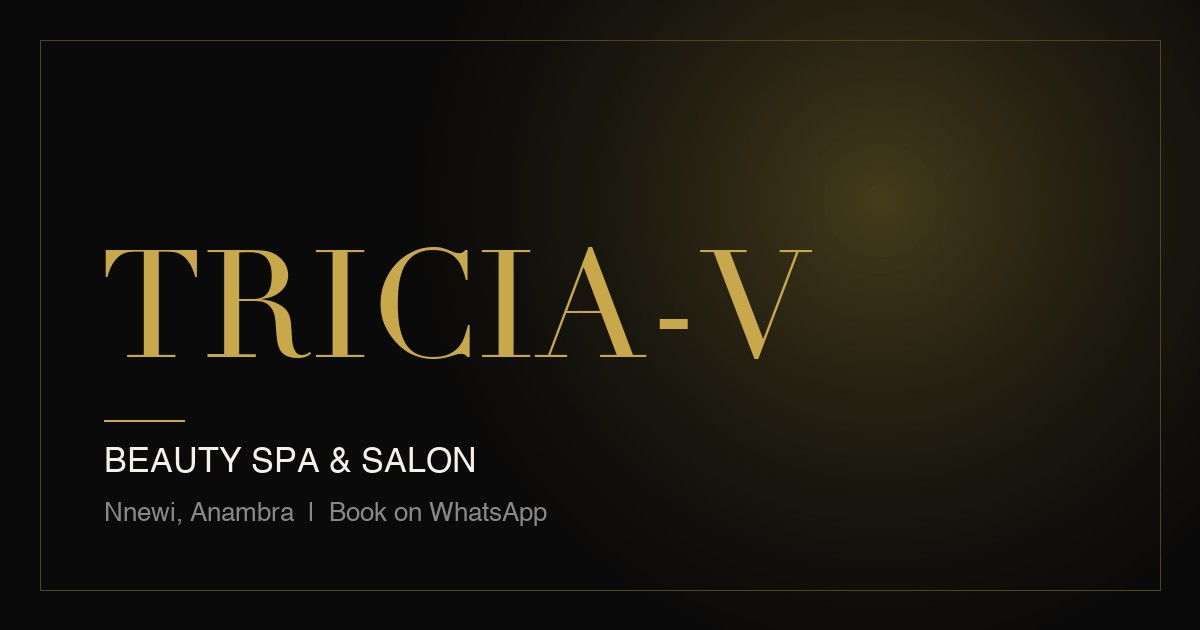
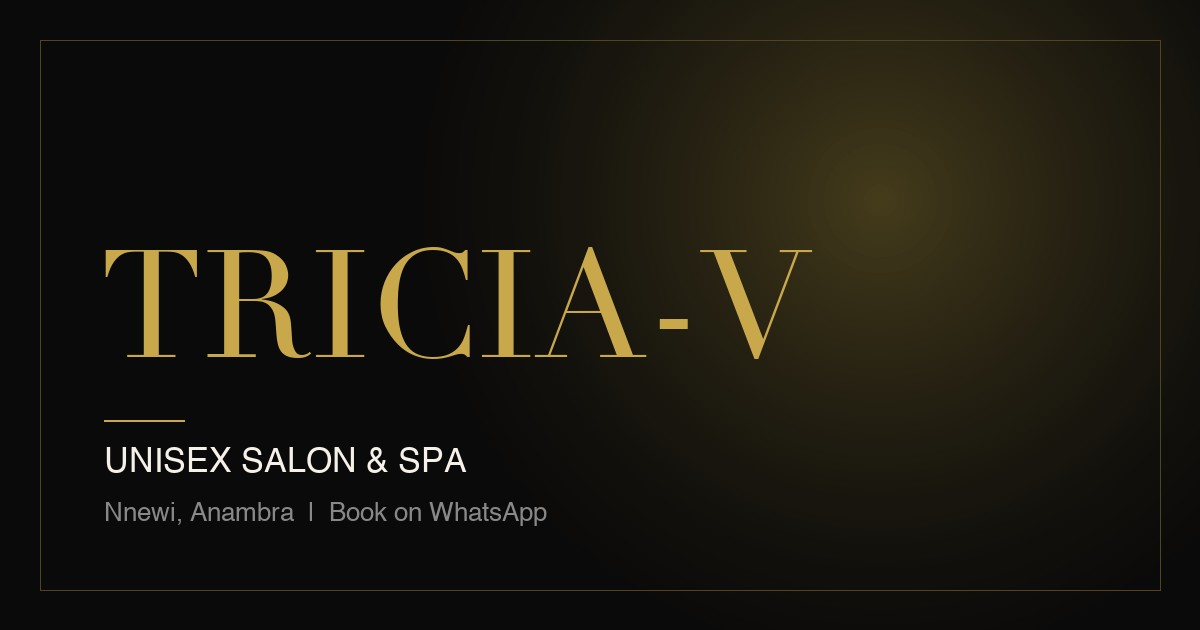
Use Google business name, verified map embed, Anambra-wide home service copy

Changed region(s): [[0.0925, 0.6937, 0.4008, 0.754]]

diff --git a/index.html b/index.html
@@ -4,21 +4,21 @@
 <meta charset="utf-8">
 <meta name="viewport" content="width=device-width, initial-scale=1">
 <meta name="robots" content="noindex, nofollow">
-<title>TRICIA-V Beauty Spa &amp; Salon | Pedicure, Nails &amp; Spa in Nnewi Anambra</title>
-<meta name="description" content="TRICIA-V Beauty Spa and Salon - premium pedicure, manicure, facials, Moroccan radiance therapy, semi-permanent tattoos and home services in Nnewi, Anambra. Book on WhatsApp.">
+<title>TRICIA-V unisex salon and spa | Pedicure, Nails &amp; Spa in Nnewi Anambra</title>
+<meta name="description" content="TRICIA-V unisex salon and spa - premium pedicure, manicure, facials, Moroccan radiance therapy, semi-permanent tattoos and home services in Nnewi, Anambra. Book on WhatsApp.">
 <meta name="theme-color" content="#0A0A0A">
 <link rel="canonical" href="https://tricia-v.vercel.app">
 <link rel="icon" href="/favicon.ico">
 
 <meta property="og:type" content="website">
-<meta property="og:title" content="TRICIA-V Beauty Spa &amp; Salon | Pedicure, Nails &amp; Spa in Nnewi Anambra">
-<meta property="og:description" content="TRICIA-V Beauty Spa and Salon - premium pedicure, manicure, facials, Moroccan radiance therapy, semi-permanent tattoos and home services in Nnewi, Anambra. Book on WhatsApp.">
+<meta property="og:title" content="TRICIA-V unisex salon and spa | Pedicure, Nails &amp; Spa in Nnewi Anambra">
+<meta property="og:description" content="TRICIA-V unisex salon and spa - premium pedicure, manicure, facials, Moroccan radiance therapy, semi-permanent tattoos and home services in Nnewi, Anambra. Book on WhatsApp.">
 <meta property="og:url" content="https://tricia-v.vercel.app">
 <meta property="og:image" content="https://tricia-v.vercel.app/og-image.jpg">
 <meta property="og:image:width" content="1200">
 <meta property="og:image:height" content="630">
 <meta name="twitter:card" content="summary_large_image">
-<meta name="twitter:title" content="TRICIA-V Beauty Spa &amp; Salon | Pedicure, Nails &amp; Spa in Nnewi Anambra">
+<meta name="twitter:title" content="TRICIA-V unisex salon and spa | Pedicure, Nails &amp; Spa in Nnewi Anambra">
 <meta name="twitter:description" content="Premium pedicure, manicure, facials, Moroccan radiance therapy, semi-permanent tattoos and home services in Nnewi, Anambra. Book on WhatsApp.">
 <meta name="twitter:image" content="https://tricia-v.vercel.app/og-image.jpg">
 
@@ -30,7 +30,7 @@
 {
   "@context": "https://schema.org",
   "@type": "BeautySalon",
-  "name": "TRICIA-V Beauty Spa and Salon",
+  "name": "TRICIA-V unisex salon and spa",
   "image": "https://tricia-v.vercel.app/images/hero.jpg",
   "address": {
     "@type": "PostalAddress",
@@ -51,7 +51,8 @@
   }],
   "sameAs": [
     "https://www.instagram.com/tricia_v_beauty_spa_and_salon_/",
-    "https://www.tiktok.com/@tricia_v_beauty_spa_and_salon_"
+    "https://www.tiktok.com/@tricia_v_beauty_spa_and_salon_",
+    "https://share.google/2gv11sHZ3atTrzJFW"
   ]
 }
 </script>
@@ -411,7 +412,7 @@ footer li a:hover{color:var(--gold-light)}
       <a href="#services">Services</a>
       <a href="#gallery">Gallery</a>
       <a href="#about">About</a>
-      <a href="https://wa.me/2348061172417?text=Hi%2C%20I%20would%20like%20to%20book%20an%20appointment%20at%20TRICIA-V%20Beauty%20Spa%20and%20Salon" class="btn btn-gold" target="_blank" rel="noopener">Book Now</a>
+      <a href="https://wa.me/2348061172417?text=Hi%2C%20I%20would%20like%20to%20book%20an%20appointment%20at%20TRICIA-V%20unisex%20salon%20and%20spa" class="btn btn-gold" target="_blank" rel="noopener">Book Now</a>
     </nav>
     <button class="burger" id="burger" aria-label="Open menu" aria-expanded="false" aria-controls="navLinks"><span></span><span></span><span></span></button>
   </div>
@@ -421,7 +422,7 @@ footer li a:hover{color:var(--gold-light)}
 
 <!-- ═════════ 2 HERO ═════════ -->
 <section class="hero" id="top">
-  <img class="hero-img" src="/images/hero.jpg" width="1920" height="1080" alt="Inside TRICIA-V Beauty Spa and Salon, Nnewi" fetchpriority="high" decoding="async">
+  <img class="hero-img" src="/images/hero.jpg" width="1920" height="1080" alt="Inside TRICIA-V unisex salon and spa, Nnewi" fetchpriority="high" decoding="async">
   <div class="wrap">
     <h1 id="heroTitle">
       <span class="line"><span>Beauty Redefined.</span></span>
@@ -429,7 +430,7 @@ footer li a:hover{color:var(--gold-light)}
     </h1>
     <p class="sub" data-hero>Pedicures, nail art, facials, Moroccan radiance therapy, semi-permanent tattoos and home services - in the heart of Nnewi, Anambra.</p>
     <div class="hero-cta" data-hero>
-      <a class="btn btn-gold" href="https://wa.me/2348061172417?text=Hi%2C%20I%20would%20like%20to%20book%20an%20appointment%20at%20TRICIA-V%20Beauty%20Spa%20and%20Salon" target="_blank" rel="noopener">Book on WhatsApp</a>
+      <a class="btn btn-gold" href="https://wa.me/2348061172417?text=Hi%2C%20I%20would%20like%20to%20book%20an%20appointment%20at%20TRICIA-V%20unisex%20salon%20and%20spa" target="_blank" rel="noopener">Book on WhatsApp</a>
       <a class="btn btn-line" href="#services">View Services</a>
     </div>
   </div>
@@ -448,61 +449,61 @@ footer li a:hover{color:var(--gold-light)}
         <svg class="ic" aria-hidden="true"><use href="#i-pedicure"/></svg>
         <h3>Pedicure</h3>
         <p>Classic, spa and luxury pedicures, from a simple tidy-up to a full indulgence.</p>
-        <a class="dm" href="https://wa.me/2348061172417?text=Hi%2C%20I%20would%20like%20to%20book%20an%20appointment%20at%20TRICIA-V%20Beauty%20Spa%20and%20Salon" target="_blank" rel="noopener" aria-label="Pedicure: DM to book on WhatsApp">DM to book</a>
+        <a class="dm" href="https://wa.me/2348061172417?text=Hi%2C%20I%20would%20like%20to%20book%20an%20appointment%20at%20TRICIA-V%20unisex%20salon%20and%20spa" target="_blank" rel="noopener" aria-label="Pedicure: DM to book on WhatsApp">DM to book</a>
       </article>
       <article class="svc" data-reveal>
         <svg class="ic" aria-hidden="true"><use href="#i-manicure"/></svg>
         <h3>Manicure &amp; Nail Art</h3>
         <p>Classic and gel manicures, with custom nail art designed around you.</p>
-        <a class="dm" href="https://wa.me/2348061172417?text=Hi%2C%20I%20would%20like%20to%20book%20an%20appointment%20at%20TRICIA-V%20Beauty%20Spa%20and%20Salon" target="_blank" rel="noopener" aria-label="Manicure and Nail Art: DM to book on WhatsApp">DM to book</a>
+        <a class="dm" href="https://wa.me/2348061172417?text=Hi%2C%20I%20would%20like%20to%20book%20an%20appointment%20at%20TRICIA-V%20unisex%20salon%20and%20spa" target="_blank" rel="noopener" aria-label="Manicure and Nail Art: DM to book on WhatsApp">DM to book</a>
       </article>
       <article class="svc" data-reveal>
         <svg class="ic" aria-hidden="true"><use href="#i-facial"/></svg>
         <h3>Facials &amp; Skin Renewal</h3>
         <p>Facials that cleanse, restore and renew tired skin.</p>
-        <a class="dm" href="https://wa.me/2348061172417?text=Hi%2C%20I%20would%20like%20to%20book%20an%20appointment%20at%20TRICIA-V%20Beauty%20Spa%20and%20Salon" target="_blank" rel="noopener" aria-label="Facials and Skin Renewal: DM to book on WhatsApp">DM to book</a>
+        <a class="dm" href="https://wa.me/2348061172417?text=Hi%2C%20I%20would%20like%20to%20book%20an%20appointment%20at%20TRICIA-V%20unisex%20salon%20and%20spa" target="_blank" rel="noopener" aria-label="Facials and Skin Renewal: DM to book on WhatsApp">DM to book</a>
       </article>
       <article class="svc" data-reveal>
         <svg class="ic" aria-hidden="true"><use href="#i-radiance"/></svg>
         <h3>Moroccan Radiance Therapy</h3>
         <p>A Moroccan-inspired treatment for skin that looks rested and glowing.</p>
-        <a class="dm" href="https://wa.me/2348061172417?text=Hi%2C%20I%20would%20like%20to%20book%20an%20appointment%20at%20TRICIA-V%20Beauty%20Spa%20and%20Salon" target="_blank" rel="noopener" aria-label="Moroccan Radiance Therapy: DM to book on WhatsApp">DM to book</a>
+        <a class="dm" href="https://wa.me/2348061172417?text=Hi%2C%20I%20would%20like%20to%20book%20an%20appointment%20at%20TRICIA-V%20unisex%20salon%20and%20spa" target="_blank" rel="noopener" aria-label="Moroccan Radiance Therapy: DM to book on WhatsApp">DM to book</a>
       </article>
       <article class="svc" data-reveal>
         <svg class="ic" aria-hidden="true"><use href="#i-wax"/></svg>
         <h3>Waxing &amp; Hair Removal</h3>
         <p>Careful, clean hair removal for a smooth finish.</p>
-        <a class="dm" href="https://wa.me/2348061172417?text=Hi%2C%20I%20would%20like%20to%20book%20an%20appointment%20at%20TRICIA-V%20Beauty%20Spa%20and%20Salon" target="_blank" rel="noopener" aria-label="Waxing and Hair Removal: DM to book on WhatsApp">DM to book</a>
+        <a class="dm" href="https://wa.me/2348061172417?text=Hi%2C%20I%20would%20like%20to%20book%20an%20appointment%20at%20TRICIA-V%20unisex%20salon%20and%20spa" target="_blank" rel="noopener" aria-label="Waxing and Hair Removal: DM to book on WhatsApp">DM to book</a>
       </article>
       <article class="svc" data-reveal>
         <svg class="ic" aria-hidden="true"><use href="#i-body"/></svg>
         <h3>Spa Body Treatments</h3>
         <p>Slow, restorative body treatments to switch off and unwind.</p>
-        <a class="dm" href="https://wa.me/2348061172417?text=Hi%2C%20I%20would%20like%20to%20book%20an%20appointment%20at%20TRICIA-V%20Beauty%20Spa%20and%20Salon" target="_blank" rel="noopener" aria-label="Spa Body Treatments: DM to book on WhatsApp">DM to book</a>
+        <a class="dm" href="https://wa.me/2348061172417?text=Hi%2C%20I%20would%20like%20to%20book%20an%20appointment%20at%20TRICIA-V%20unisex%20salon%20and%20spa" target="_blank" rel="noopener" aria-label="Spa Body Treatments: DM to book on WhatsApp">DM to book</a>
       </article>
       <article class="svc" data-reveal>
         <svg class="ic" aria-hidden="true"><use href="#i-hair"/></svg>
         <h3>Hair Styling &amp; Colour</h3>
         <p>Styling and colour for everyday looks and special occasions.</p>
-        <a class="dm" href="https://wa.me/2348061172417?text=Hi%2C%20I%20would%20like%20to%20book%20an%20appointment%20at%20TRICIA-V%20Beauty%20Spa%20and%20Salon" target="_blank" rel="noopener" aria-label="Hair Styling and Colour: DM to book on WhatsApp">DM to book</a>
+        <a class="dm" href="https://wa.me/2348061172417?text=Hi%2C%20I%20would%20like%20to%20book%20an%20appointment%20at%20TRICIA-V%20unisex%20salon%20and%20spa" target="_blank" rel="noopener" aria-label="Hair Styling and Colour: DM to book on WhatsApp">DM to book</a>
       </article>
       <article class="svc" data-reveal>
         <svg class="ic" aria-hidden="true"><use href="#i-tattoo"/></svg>
         <h3>Semi-Permanent Tattoos</h3>
         <p>Brows, eyeliner and lip blush, for a defined look that stays.</p>
-        <a class="dm" href="https://wa.me/2348061172417?text=Hi%2C%20I%20would%20like%20to%20book%20an%20appointment%20at%20TRICIA-V%20Beauty%20Spa%20and%20Salon" target="_blank" rel="noopener" aria-label="Semi-Permanent Tattoos: DM to book on WhatsApp">DM to book</a>
+        <a class="dm" href="https://wa.me/2348061172417?text=Hi%2C%20I%20would%20like%20to%20book%20an%20appointment%20at%20TRICIA-V%20unisex%20salon%20and%20spa" target="_blank" rel="noopener" aria-label="Semi-Permanent Tattoos: DM to book on WhatsApp">DM to book</a>
       </article>
       <article class="svc" data-reveal>
         <svg class="ic" aria-hidden="true"><use href="#i-home"/></svg>
         <h3>Home Services</h3>
-        <p>Selected treatments brought to your door, on request.</p>
-        <a class="dm" href="https://wa.me/2348061172417?text=Hi%2C%20I%20would%20like%20to%20book%20an%20appointment%20at%20TRICIA-V%20Beauty%20Spa%20and%20Salon" target="_blank" rel="noopener" aria-label="Home Services: DM to book on WhatsApp">DM to book</a>
+        <p>Any treatment we offer, brought to your door anywhere in Anambra.</p>
+        <a class="dm" href="https://wa.me/2348061172417?text=Hi%2C%20I%20would%20like%20to%20book%20an%20appointment%20at%20TRICIA-V%20unisex%20salon%20and%20spa" target="_blank" rel="noopener" aria-label="Home Services: DM to book on WhatsApp">DM to book</a>
       </article>
       <article class="svc" data-reveal>
         <svg class="ic" aria-hidden="true"><use href="#i-consult"/></svg>
         <h3>Skin Consultation</h3>
         <p>Talk through your skin with us and leave knowing which treatment is right for you.</p>
-        <a class="dm" href="https://wa.me/2348061172417?text=Hi%2C%20I%20would%20like%20to%20book%20an%20appointment%20at%20TRICIA-V%20Beauty%20Spa%20and%20Salon" target="_blank" rel="noopener" aria-label="Skin Consultation: DM to book on WhatsApp">DM to book</a>
+        <a class="dm" href="https://wa.me/2348061172417?text=Hi%2C%20I%20would%20like%20to%20book%20an%20appointment%20at%20TRICIA-V%20unisex%20salon%20and%20spa" target="_blank" rel="noopener" aria-label="Skin Consultation: DM to book on WhatsApp">DM to book</a>
       </article>
     </div>
   </div>
@@ -518,15 +519,15 @@ footer li a:hover{color:var(--gold-light)}
       </div>
     </div>
     <div class="gal-grid">
-      <button type="button" class="gal-item media" data-reveal aria-label="Open photo: pedicure"><img src="/images/gallery-01.jpg" width="1000" height="1000" loading="lazy" decoding="async" alt="Luxury spa pedicure at TRICIA-V Beauty Spa, Nnewi"></button>
-      <button type="button" class="gal-item media" data-reveal aria-label="Open photo: gel manicure"><img src="/images/gallery-02.jpg" width="1000" height="1000" loading="lazy" decoding="async" alt="Gel manicure with nail art at TRICIA-V Beauty Spa, Nnewi"></button>
-      <button type="button" class="gal-item media" data-reveal aria-label="Open photo: facial"><img src="/images/gallery-03.jpg" width="1000" height="1000" loading="lazy" decoding="async" alt="Facial and skin renewal treatment at TRICIA-V Beauty Spa, Nnewi"></button>
-      <button type="button" class="gal-item media" data-reveal aria-label="Open photo: Moroccan radiance therapy"><img src="/images/gallery-04.jpg" width="1000" height="1000" loading="lazy" decoding="async" alt="Moroccan radiance therapy at TRICIA-V Beauty Spa, Nnewi"></button>
-      <button type="button" class="gal-item media" data-reveal aria-label="Open photo: semi-permanent brows"><img src="/images/gallery-05.jpg" width="1000" height="1000" loading="lazy" decoding="async" alt="Semi-permanent brow tattoo at TRICIA-V Beauty Spa, Nnewi"></button>
-      <button type="button" class="gal-item media" data-reveal aria-label="Open photo: lip blush"><img src="/images/gallery-06.jpg" width="1000" height="1000" loading="lazy" decoding="async" alt="Semi-permanent lip blush at TRICIA-V Beauty Spa, Nnewi"></button>
-      <button type="button" class="gal-item media" data-reveal aria-label="Open photo: hair styling"><img src="/images/gallery-07.jpg" width="1000" height="1000" loading="lazy" decoding="async" alt="Hair styling and colour at TRICIA-V Beauty Spa, Nnewi"></button>
-      <button type="button" class="gal-item media" data-reveal aria-label="Open photo: classic pedicure"><img src="/images/gallery-08.jpg" width="1000" height="1000" loading="lazy" decoding="async" alt="Classic pedicure at TRICIA-V Beauty Spa, Nnewi"></button>
-      <button type="button" class="gal-item media" data-reveal aria-label="Open photo: spa body treatment"><img src="/images/gallery-09.jpg" width="1000" height="1000" loading="lazy" decoding="async" alt="Spa body treatment at TRICIA-V Beauty Spa, Nnewi"></button>
+      <button type="button" class="gal-item media" data-reveal aria-label="Open photo: pedicure"><img src="/images/gallery-01.jpg" width="1000" height="1000" loading="lazy" decoding="async" alt="Luxury spa pedicure at TRICIA-V unisex salon and spa, Nnewi"></button>
+      <button type="button" class="gal-item media" data-reveal aria-label="Open photo: gel manicure"><img src="/images/gallery-02.jpg" width="1000" height="1000" loading="lazy" decoding="async" alt="Gel manicure with nail art at TRICIA-V unisex salon and spa, Nnewi"></button>
+      <button type="button" class="gal-item media" data-reveal aria-label="Open photo: facial"><img src="/images/gallery-03.jpg" width="1000" height="1000" loading="lazy" decoding="async" alt="Facial and skin renewal treatment at TRICIA-V unisex salon and spa, Nnewi"></button>
+      <button type="button" class="gal-item media" data-reveal aria-label="Open photo: Moroccan radiance therapy"><img src="/images/gallery-04.jpg" width="1000" height="1000" loading="lazy" decoding="async" alt="Moroccan radiance therapy at TRICIA-V unisex salon and spa, Nnewi"></button>
+      <button type="button" class="gal-item media" data-reveal aria-label="Open photo: semi-permanent brows"><img src="/images/gallery-05.jpg" width="1000" height="1000" loading="lazy" decoding="async" alt="Semi-permanent brow tattoo at TRICIA-V unisex salon and spa, Nnewi"></button>
+      <button type="button" class="gal-item media" data-reveal aria-label="Open photo: lip blush"><img src="/images/gallery-06.jpg" width="1000" height="1000" loading="lazy" decoding="async" alt="Semi-permanent lip blush at TRICIA-V unisex salon and spa, Nnewi"></button>
+      <button type="button" class="gal-item media" data-reveal aria-label="Open photo: hair styling"><img src="/images/gallery-07.jpg" width="1000" height="1000" loading="lazy" decoding="async" alt="Hair styling and colour at TRICIA-V unisex salon and spa, Nnewi"></button>
+      <button type="button" class="gal-item media" data-reveal aria-label="Open photo: classic pedicure"><img src="/images/gallery-08.jpg" width="1000" height="1000" loading="lazy" decoding="async" alt="Classic pedicure at TRICIA-V unisex salon and spa, Nnewi"></button>
+      <button type="button" class="gal-item media" data-reveal aria-label="Open photo: spa body treatment"><img src="/images/gallery-09.jpg" width="1000" height="1000" loading="lazy" decoding="async" alt="Spa body treatment at TRICIA-V unisex salon and spa, Nnewi"></button>
     </div>
   </div>
 </section>
@@ -535,21 +536,23 @@ footer li a:hover{color:var(--gold-light)}
 <section class="sec" id="about">
   <div class="wrap about-grid">
     <div class="about-img media" data-reveal>
-      <img src="/images/about.jpg" width="800" height="1000" loading="lazy" decoding="async" alt="The TRICIA-V Beauty Spa and Salon space in Nnewi, Anambra">
+      <img src="/images/about.jpg" width="800" height="1000" loading="lazy" decoding="async" alt="The TRICIA-V unisex salon and spa space in Nnewi, Anambra">
     </div>
     <div class="about-copy">
       <div data-reveal>
         <p class="eyebrow">About</p>
-        <!-- ABOUT COPY - to be written from Vivian's own words.
+        <!-- ABOUT COPY - interim copy uses confirmed facts only (no personal story).
+             Still to add from Vivian's own words, if she wants it:
              Ask her: why did you open it? what do you want women in
              Nnewi to stop having to do? what do you do that others here
              do not? Her sentences, lightly tidied. Not invented. -->
-        <h2 class="title">TRICIA-V, Nnewi</h2>
+        <h2 class="title">Beauty care in Nnewi, <em>and across Anambra.</em></h2>
       </div>
-      <p data-reveal>TRICIA-V Beauty Spa and Salon is at 40 Bishop Uzodike Rd, Nnewi. We offer pedicure, manicure and nail art, facials and skin renewal, Moroccan radiance therapy, waxing, spa body treatments, hair styling and colour, semi-permanent tattoos and skin consultations. Home services are available on request.</p>
+      <p data-reveal>TRICIA-V unisex salon and spa is at 40 Bishop Uzodike Rd, Nnewi, led by Vivian Udechukwu. Pedicure, manicure and nail art, facials, Moroccan radiance therapy, waxing, body treatments, hair, semi-permanent tattoos and skin consultations, all in one place.</p>
+      <p data-reveal>Cannot come to us? Every service we offer can be done at your home, anywhere in Anambra. Message us on WhatsApp, tell us what you need, and we will arrange a time.</p>
       <ul class="values">
         <li data-reveal>Premium products in every treatment.</li>
-        <li data-reveal>Home service available - we come to you.</li>
+        <li data-reveal>Home service across Anambra - we come to you.</li>
         <li data-reveal>WhatsApp replies during opening hours.</li>
       </ul>
     </div>
@@ -573,7 +576,7 @@ footer li a:hover{color:var(--gold-light)}
           <li>Manicure</li>
           <li>Facial</li>
         </ul>
-        <a class="btn btn-line" href="https://wa.me/2348061172417?text=Hi%2C%20I%20would%20like%20to%20book%20an%20appointment%20at%20TRICIA-V%20Beauty%20Spa%20and%20Salon" target="_blank" rel="noopener" aria-label="Book The TRICIA-V Glow on WhatsApp">Book This Package</a>
+        <a class="btn btn-line" href="https://wa.me/2348061172417?text=Hi%2C%20I%20would%20like%20to%20book%20an%20appointment%20at%20TRICIA-V%20unisex%20salon%20and%20spa" target="_blank" rel="noopener" aria-label="Book The TRICIA-V Glow on WhatsApp">Book This Package</a>
       </article>
       <article class="pkg" data-reveal>
         <h3>The Radiance Package</h3>
@@ -584,7 +587,7 @@ footer li a:hover{color:var(--gold-light)}
           <li>Skin Renewal facial</li>
           <li>Skin consultation</li>
         </ul>
-        <a class="btn btn-line" href="https://wa.me/2348061172417?text=Hi%2C%20I%20would%20like%20to%20book%20an%20appointment%20at%20TRICIA-V%20Beauty%20Spa%20and%20Salon" target="_blank" rel="noopener" aria-label="Book The Radiance Package on WhatsApp">Book This Package</a>
+        <a class="btn btn-line" href="https://wa.me/2348061172417?text=Hi%2C%20I%20would%20like%20to%20book%20an%20appointment%20at%20TRICIA-V%20unisex%20salon%20and%20spa" target="_blank" rel="noopener" aria-label="Book The Radiance Package on WhatsApp">Book This Package</a>
       </article>
       <article class="pkg" data-reveal>
         <h3>The Full Glam</h3>
@@ -595,7 +598,7 @@ footer li a:hover{color:var(--gold-light)}
           <li>Hair styling &amp; colour</li>
           <li>Semi-permanent makeup</li>
         </ul>
-        <a class="btn btn-line" href="https://wa.me/2348061172417?text=Hi%2C%20I%20would%20like%20to%20book%20an%20appointment%20at%20TRICIA-V%20Beauty%20Spa%20and%20Salon" target="_blank" rel="noopener" aria-label="Book The Full Glam on WhatsApp">Book This Package</a>
+        <a class="btn btn-line" href="https://wa.me/2348061172417?text=Hi%2C%20I%20would%20like%20to%20book%20an%20appointment%20at%20TRICIA-V%20unisex%20salon%20and%20spa" target="_blank" rel="noopener" aria-label="Book The Full Glam on WhatsApp">Book This Package</a>
       </article>
     </div>
   </div>
@@ -618,7 +621,7 @@ footer li a:hover{color:var(--gold-light)}
       <p class="eyebrow">Book</p>
       <h2 class="title">Ready to <em>Treat Yourself?</em></h2>
       <p class="lede">Book your appointment on WhatsApp.</p>
-      <a class="btn btn-wa" href="https://wa.me/2348061172417?text=Hi%2C%20I%20would%20like%20to%20book%20an%20appointment%20at%20TRICIA-V%20Beauty%20Spa%20and%20Salon" target="_blank" rel="noopener">
+      <a class="btn btn-wa" href="https://wa.me/2348061172417?text=Hi%2C%20I%20would%20like%20to%20book%20an%20appointment%20at%20TRICIA-V%20unisex%20salon%20and%20spa" target="_blank" rel="noopener">
         <svg class="ic" aria-hidden="true"><use href="#i-wa"/></svg>Chat on WhatsApp
       </a>
       <p class="book-hours">Mon-Sat, 8:00am - 9:00pm</p>
@@ -640,7 +643,7 @@ footer li a:hover{color:var(--gold-light)}
     </div>
 
     <div class="map" data-reveal>
-      <iframe src="https://maps.google.com/maps?q=40%20Bishop%20Uzodike%20Rd%2C%20Nnewi%2C%20Anambra%2C%20Nigeria&amp;output=embed" width="100%" height="320" style="border:0" allowfullscreen loading="lazy" referrerpolicy="no-referrer-when-downgrade" title="TRICIA-V Beauty Spa and Salon location"></iframe>
+      <iframe src="https://www.google.com/maps/embed?pb=!1m14!1m12!1m3!1d3967.6613946005127!2d6.911252074988898!3d6.041113693944563!2m3!1f0!2f0!3f0!3m2!1i1024!2i768!4f13.1!5e0!3m2!1sen!2sng!4v1791975475132!5m2!1sen!2sng" width="100%" height="320" style="border:0" allowfullscreen loading="lazy" referrerpolicy="strict-origin-when-cross-origin" title="TRICIA-V unisex salon and spa location"></iframe>
     </div>
   </div>
   <div style="height:clamp(96px,13vw,160px)"></div>
@@ -681,20 +684,20 @@ footer li a:hover{color:var(--gold-light)}
         <ul>
           <li><a href="https://www.instagram.com/tricia_v_beauty_spa_and_salon_/" target="_blank" rel="noopener">Instagram</a></li>
           <li><a href="https://www.tiktok.com/@tricia_v_beauty_spa_and_salon_" target="_blank" rel="noopener">TikTok</a></li>
-          <li><a href="https://wa.me/2348061172417?text=Hi%2C%20I%20would%20like%20to%20book%20an%20appointment%20at%20TRICIA-V%20Beauty%20Spa%20and%20Salon" target="_blank" rel="noopener">WhatsApp</a></li>
+          <li><a href="https://wa.me/2348061172417?text=Hi%2C%20I%20would%20like%20to%20book%20an%20appointment%20at%20TRICIA-V%20unisex%20salon%20and%20spa" target="_blank" rel="noopener">WhatsApp</a></li>
           <li><a href="tel:+2348061172417">0806 117 2417</a></li>
         </ul>
       </div>
     </div>
     <div class="foot-bar">
-      <span>&copy; 2026 TRICIA-V Beauty Spa and Salon. All rights reserved.</span>
+      <span>&copy; 2026 TRICIA-V unisex salon and spa. All rights reserved.</span>
       <a href="https://ngwangwadigital.com" target="_blank" rel="noopener">Website by NgwaNgwa Digital</a>
     </div>
   </div>
 </footer>
 
 <!-- Floating WhatsApp -->
-<a class="wa-float" href="https://wa.me/2348061172417?text=Hi%2C%20I%20would%20like%20to%20book%20an%20appointment%20at%20TRICIA-V%20Beauty%20Spa%20and%20Salon" target="_blank" rel="noopener" aria-label="Book an appointment on WhatsApp">
+<a class="wa-float" href="https://wa.me/2348061172417?text=Hi%2C%20I%20would%20like%20to%20book%20an%20appointment%20at%20TRICIA-V%20unisex%20salon%20and%20spa" target="_blank" rel="noopener" aria-label="Book an appointment on WhatsApp">
   <svg class="ic" aria-hidden="true"><use href="#i-wa"/></svg>
   <span class="wa-tip">Book an appointment</span>
 </a>
